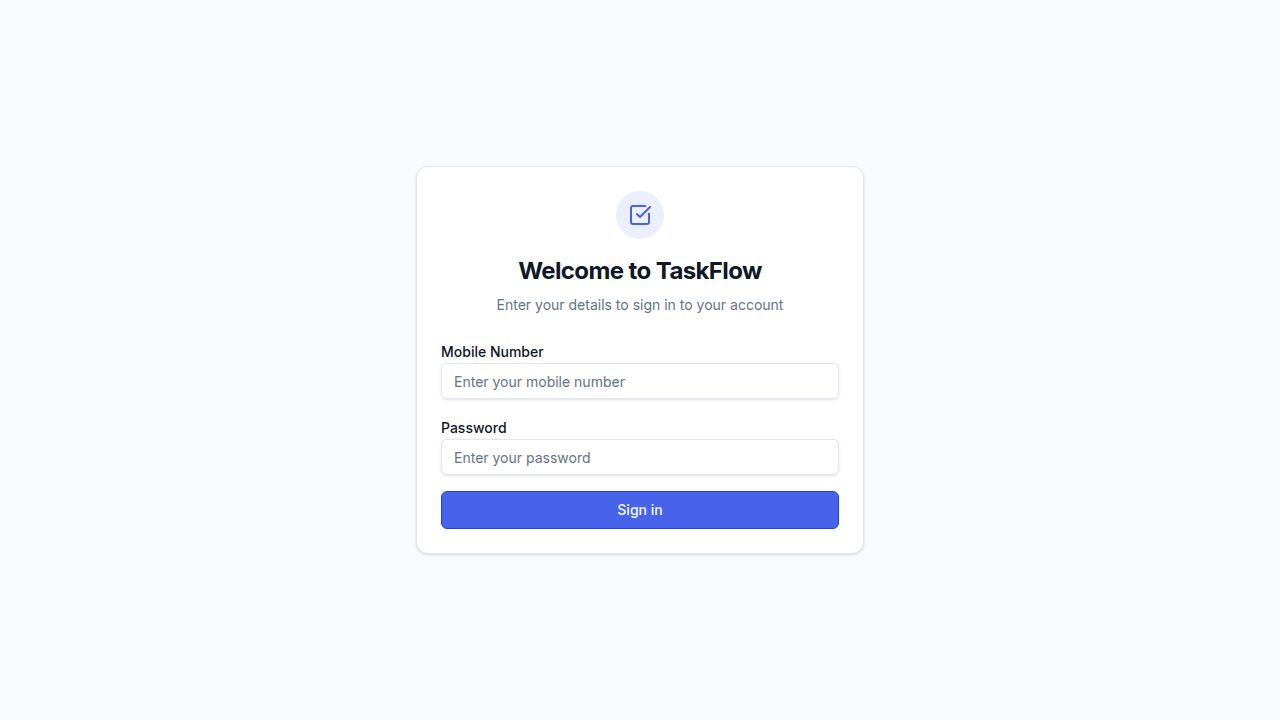
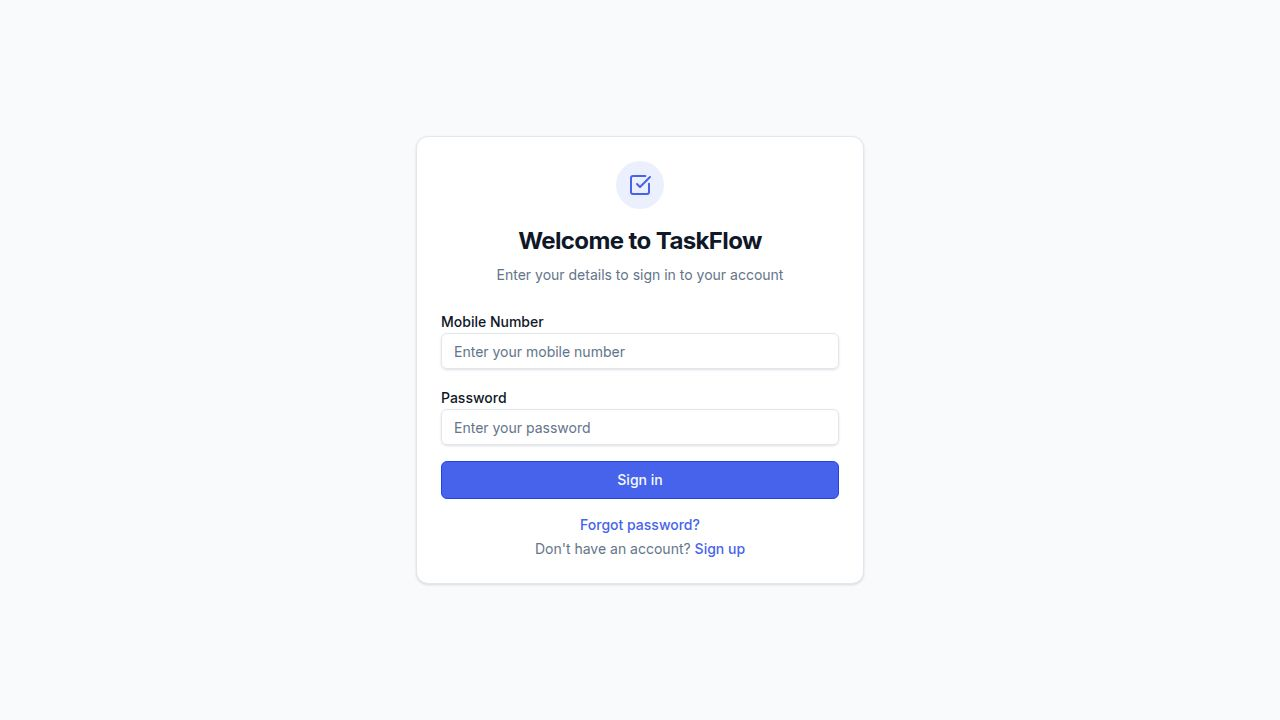
Fix application crash and resolve port conflicts
Correctly implements the file attachment input and removes the invalid FormLabel component.

Replit-Commit-Author: Agent
Replit-Commit-Session-Id: 2b842517-3864-4c44-9774-48cb9f0be844
Replit-Commit-Checkpoint-Type: full_checkpoint
Replit-Commit-Event-Id: 2011afa7-df96-423b-96ce-cce3bc772631
Replit-Commit-Screenshot-Url: https://storage.googleapis.com/screenshot-production-us-central1/5c2473fd-b5fa-4ce9-99a0-17c21e409e71/2b842517-3864-4c44-9774-48cb9f0be844/ruewfUw
Replit-Helium-Checkpoint-Created: true

Changed region(s): [[0.3438, 0.2444, 0.6562, 0.7944]]

diff --git a/artifacts/task-app/src/pages/tasks/new.tsx b/artifacts/task-app/src/pages/tasks/new.tsx
@@ -136,12 +136,10 @@ export default function NewTask() {
                   )} />
                 </div>
 
-                <FormItem>
-                  <FormLabel>Attachment (optional)</FormLabel>
-                  <FormControl>
-                    <Input type="file" onChange={(e) => setSelectedFile(e.target.files?.[0] || null)} />
-                  </FormControl>
-                </FormItem>
+                <div className="space-y-2">
+                  <label className="text-sm font-medium leading-none">Attachment (optional)</label>
+                  <Input type="file" onChange={(e) => setSelectedFile(e.target.files?.[0] || null)} />
+                </div>
 
                 <div className="flex justify-end gap-2 pt-4">
                   <Button type="button" variant="outline" onClick={() => setLocation("/tasks")}>Cancel</Button>